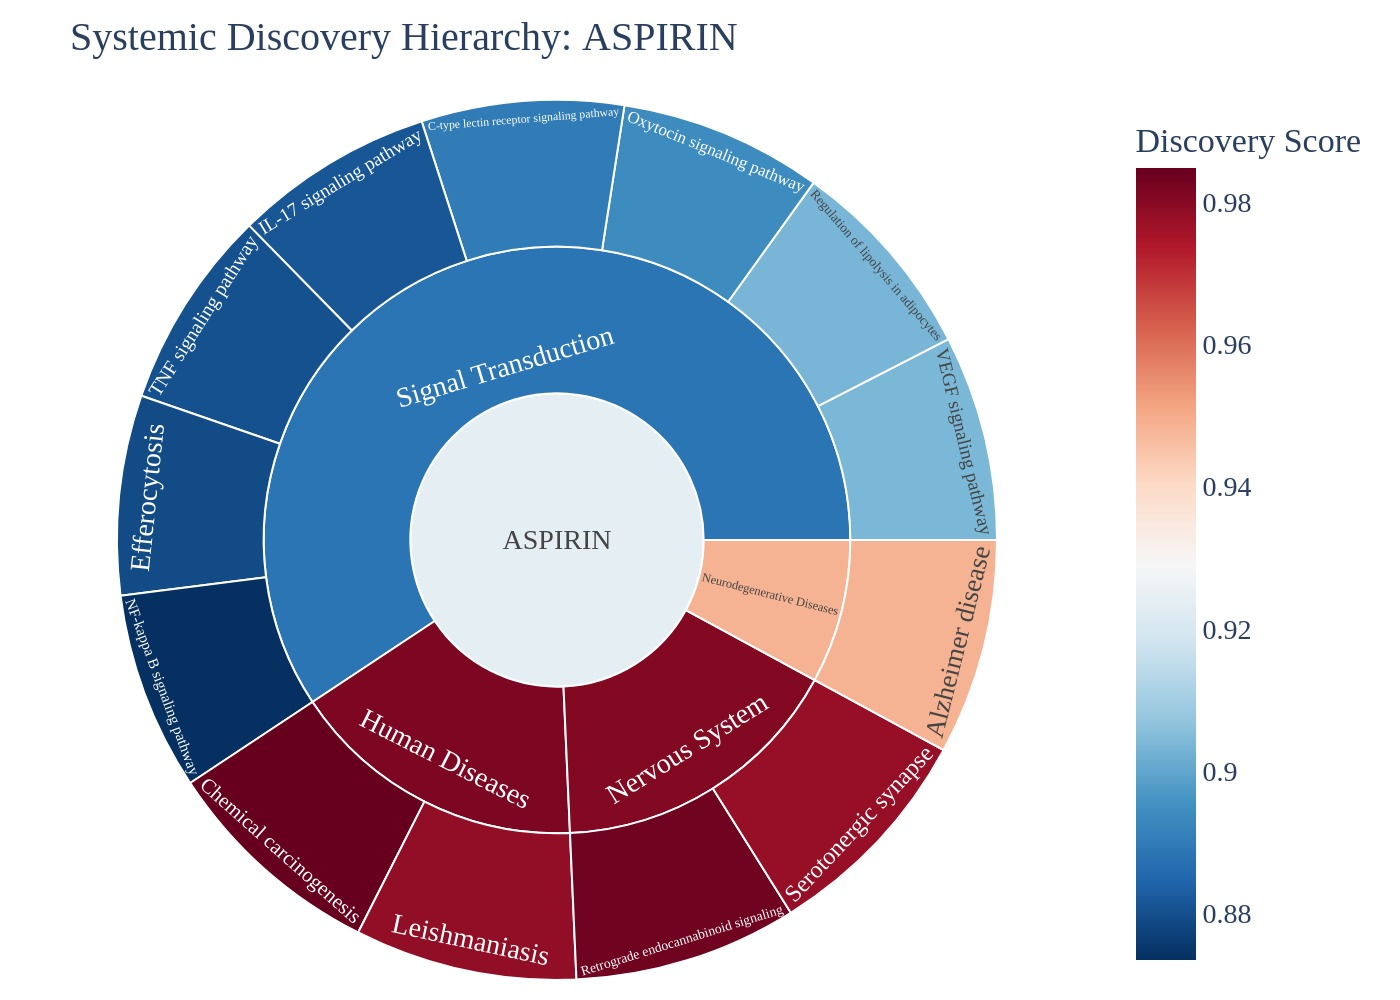
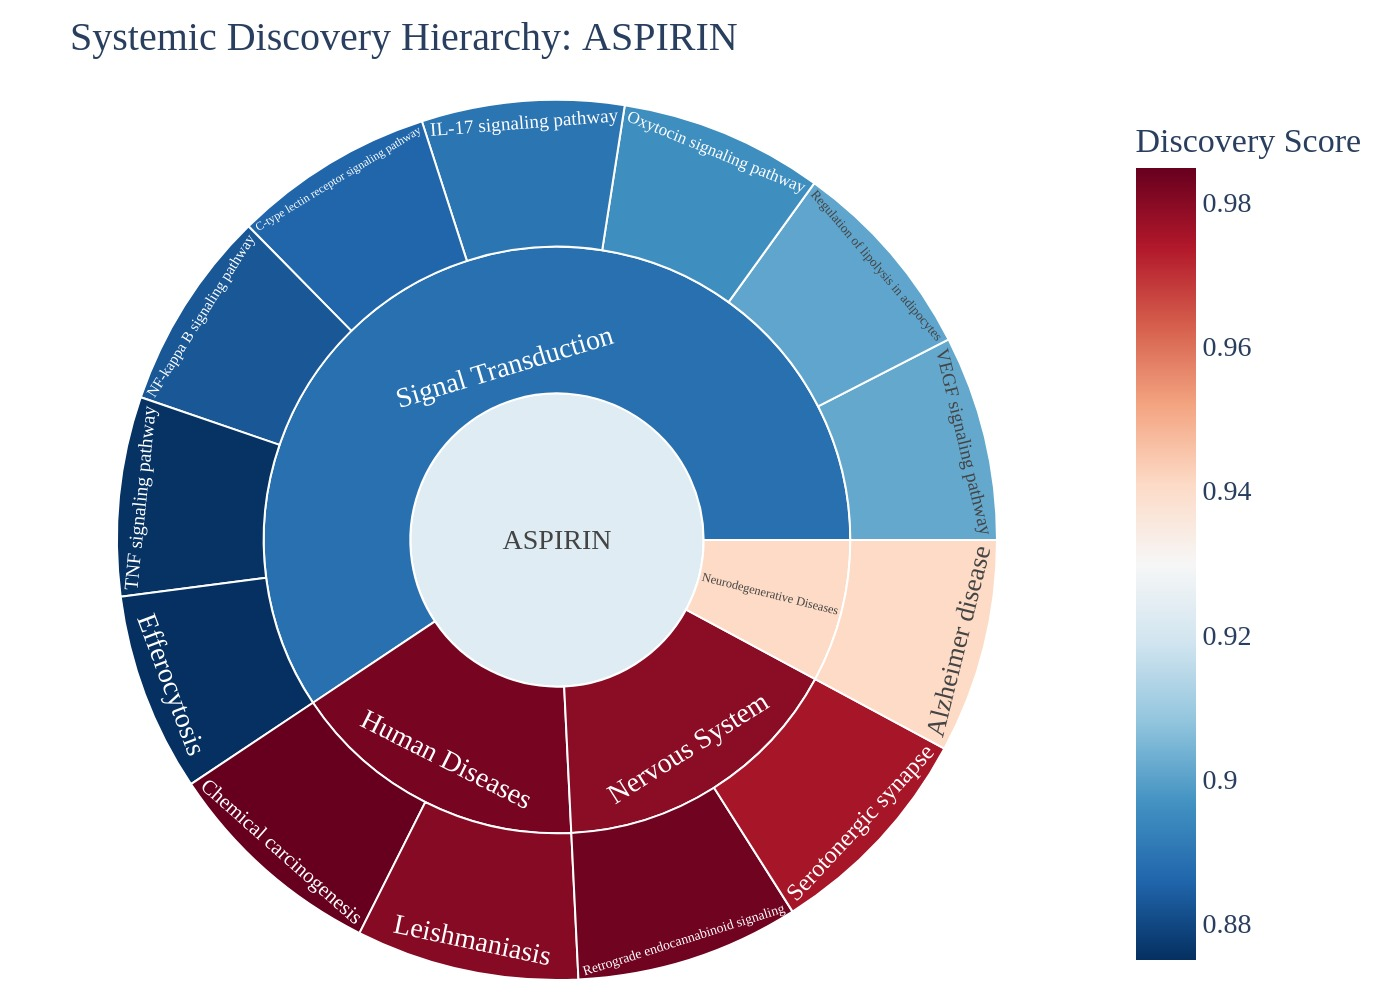
Cleanup old results and update Aspirin with high-accuracy V2 engine

diff --git a/results/Aspirin.md b/results/Aspirin.md
@@ -13,15 +13,15 @@ The following table maps the numeric identifiers (1-15) displayed on the blue ou
 | 2 | Retrograde endocannabinoid signaling | 0.98 |
 | 3 | Leishmaniasis | 0.98 |
 | 4 | Serotonergic synapse | 0.98 |
-| 5 | Alzheimer disease | 0.95 |
+| 5 | Alzheimer disease | 0.94 |
 | 6 | VEGF signaling pathway | 0.90 |
 | 7 | Regulation of lipolysis in adipocytes | 0.90 |
-| 8 | Oxytocin signaling pathway | 0.89 |
-| 9 | C-type lectin receptor signaling pathway | 0.89 |
-| 10 | IL-17 signaling pathway | 0.88 |
-| 11 | TNF signaling pathway | 0.88 |
-| 12 | Efferocytosis | 0.88 |
-| 13 | NF-kappa B signaling pathway | 0.87 |
+| 8 | Oxytocin signaling pathway | 0.90 |
+| 9 | IL-17 signaling pathway | 0.89 |
+| 10 | C-type lectin receptor signaling pathway | 0.89 |
+| 11 | NF-kappa B signaling pathway | 0.88 |
+| 12 | TNF signaling pathway | 0.88 |
+| 13 | Efferocytosis | 0.87 |
 
 ### Visual Discovery Portfolio
 ![Discovery Meta-Network](aspirin_hub_and_spoke.jpg)
@@ -33,19 +33,19 @@ The following table maps the numeric identifiers (1-15) displayed on the blue ou
 ## I. NEW POTENTIAL DISEASE TARGETS
 | Discovery Pathway | System Category | Predicted Effect | Discovery Score | Z-Score (Specificity) | Biological Mechanism Narrative |
 |---|---|---|---|---|---|
-| [Chemical carcinogenesis](https://www.kegg.jp/kegg-bin/show_pathway?hsa05204+hsa:5743) | Human Diseases | **Inhibited (Predicted)** | 0.98 | 8.10 | The drug targets PTGS2, PTGS1, which influences the (RefSeq) cytochrome P450 2C19 activator to modify a member of the cytochrome P450 superfamily of enzymes in Chemical carcinogenesis. |
-| [Retrograde endocannabinoid signaling](https://www.kegg.jp/kegg-bin/show_pathway?hsa04723+hsa:5743) | Nervous System | **Inhibited (Predicted)** | 0.98 | 5.89 | The drug targets PTGS2, PTGS1, which influences the (RefSeq) mitogen-activated protein kinase 1 activator to modify is a member of the mitogen-activated protein kinase (MAPK) family in Retrograde endocannabinoid signaling. |
-| [Leishmaniasis](https://www.kegg.jp/kegg-bin/show_pathway?hsa05140+hsa:5743) | Human Diseases | **Inhibited** | 0.98 | 4.31 | The drug targets PTGS2, PTGS1, which influences the (RefSeq) mitogen-activated protein kinase 1 activator to modify is a member of the mitogen-activated protein kinase (MAPK) family in Leishmaniasis. |
-| [Serotonergic synapse](https://www.kegg.jp/kegg-bin/show_pathway?hsa04726+hsa:5743+hsa:5742) | Nervous System | **Activated (Disinhibition)** | 0.98 | 4.23 | The drug targets PTGS2, PTGS1, which influences the (RefSeq) mitogen-activated protein kinase 1 activator to modify is a member of the mitogen-activated protein kinase (MAPK) family in Serotonergic synapse. |
-| [Alzheimer disease](https://www.kegg.jp/kegg-bin/show_pathway?hsa05010+hsa:5743) | Neurodegenerative Diseases | **Inhibited (Predicted)** | 0.95 | 2.54 | The drug targets PTGS2, PTGS1, which influences the (RefSeq) mitogen-activated protein kinase 1 activator to modify is a member of the mitogen-activated protein kinase (MAPK) family in Alzheimer disease. |
-| [VEGF signaling pathway](https://www.kegg.jp/kegg-bin/show_pathway?hsa04370+hsa:5743) | Signal Transduction | **Inhibited (Predicted)** | 0.90 | 5.89 | The drug targets PTGS2, PTGS1, which influences the (RefSeq) mitogen-activated protein kinase 1 activator to modify is a member of the mitogen-activated protein kinase (MAPK) family in VEGF signaling pathway. |
-| [Regulation of lipolysis in adipocytes](https://www.kegg.jp/kegg-bin/show_pathway?hsa04923+hsa:5743+hsa:5742) | Signal Transduction | **Inhibited (Predicted)** | 0.90 | 5.69 | The drug targets PTGS2, PTGS1, which influences the (RefSeq) phosphatidylinositol 4,5-bisphosphate 3-kinase catalytic subunit alpha isoform activator to modify phosphoinositide 3-kinases (PI3Ks) phosphorylate inositol lipids and are involved in the immune response in Regulation of lipolysis in adipocytes. |
-| [Oxytocin signaling pathway](https://www.kegg.jp/kegg-bin/show_pathway?hsa04921+hsa:5743) | Signal Transduction | **Inhibited (Predicted)** | 0.89 | 3.76 | The drug targets PTGS2, PTGS1, which influences the (RefSeq) mitogen-activated protein kinase 1 activator to modify is a member of the mitogen-activated protein kinase (MAPK) family in Oxytocin signaling pathway. |
-| [C-type lectin receptor signaling pathway](https://www.kegg.jp/kegg-bin/show_pathway?hsa04625+hsa:5743) | Signal Transduction | **Inhibited (Predicted)** | 0.89 | 3.46 | The drug targets PTGS2, PTGS1, which influences the (RefSeq) mitogen-activated protein kinase 1 activator to modify is a member of the mitogen-activated protein kinase (MAPK) family in C-type lectin receptor signaling pathway. |
-| [IL-17 signaling pathway](https://www.kegg.jp/kegg-bin/show_pathway?hsa04657+hsa:5743) | Signal Transduction | **Inhibited (Predicted)** | 0.88 | 3.00 | The drug targets PTGS2, PTGS1, which influences the (RefSeq) mitogen-activated protein kinase 1 activator to modify is a member of the mitogen-activated protein kinase (MAPK) family in IL-17 signaling pathway. |
-| [TNF signaling pathway](https://www.kegg.jp/kegg-bin/show_pathway?hsa04668+hsa:5743) | Signal Transduction | **Inhibited (Predicted)** | 0.88 | 2.95 | The drug targets PTGS2, PTGS1, which influences the (RefSeq) mitogen-activated protein kinase 1 activator to modify is a member of the mitogen-activated protein kinase (MAPK) family in TNF signaling pathway. |
-| [Efferocytosis](https://www.kegg.jp/kegg-bin/show_pathway?hsa04148+hsa:5743) | Signal Transduction | **Inhibited** | 0.88 | 2.90 | The drug targets PTGS2, PTGS1, which influences the (RefSeq) mitogen-activated protein kinase 1 activator to modify is a member of the mitogen-activated protein kinase (MAPK) family in Efferocytosis. |
-| [NF-kappa B signaling pathway](https://www.kegg.jp/kegg-bin/show_pathway?hsa04064+hsa:5743) | Signal Transduction | **Inhibited (Predicted)** | 0.87 | 2.70 | The drug targets PTGS2, PTGS1, which influences the (RefSeq) NF-kappa-B essential modulator isoform a activator to modify executing downstream cellular signaling in NF-kappa B signaling pathway. |
+| [Chemical carcinogenesis](https://www.kegg.jp/kegg-bin/show_pathway?hsa05204+hsa:5743) | Human Diseases | **Inhibited (Predicted)** | 0.98 | 7.60 | The drug targets PTGS2, PTGS1, which influences the (RefSeq) cytochrome P450 2C19 activator to modify a member of the cytochrome P450 superfamily of enzymes in Chemical carcinogenesis. |
+| [Retrograde endocannabinoid signaling](https://www.kegg.jp/kegg-bin/show_pathway?hsa04723+hsa:5743) | Nervous System | **Inhibited (Predicted)** | 0.98 | 5.79 | The drug targets PTGS2, PTGS1, which influences the (RefSeq) mitogen-activated protein kinase 1 activator to modify is a member of the mitogen-activated protein kinase (MAPK) family in Retrograde endocannabinoid signaling. |
+| [Leishmaniasis](https://www.kegg.jp/kegg-bin/show_pathway?hsa05140+hsa:5743) | Human Diseases | **Inhibited** | 0.98 | 4.61 | The drug targets PTGS2, PTGS1, which influences the (RefSeq) mitogen-activated protein kinase 1 activator to modify is a member of the mitogen-activated protein kinase (MAPK) family in Leishmaniasis. |
+| [Serotonergic synapse](https://www.kegg.jp/kegg-bin/show_pathway?hsa04726+hsa:5743+hsa:5742) | Nervous System | **Activated (Disinhibition)** | 0.98 | 3.92 | The drug targets PTGS2, PTGS1, which influences the (RefSeq) mitogen-activated protein kinase 1 activator to modify is a member of the mitogen-activated protein kinase (MAPK) family in Serotonergic synapse. |
+| [Alzheimer disease](https://www.kegg.jp/kegg-bin/show_pathway?hsa05010+hsa:5743) | Neurodegenerative Diseases | **Inhibited (Predicted)** | 0.94 | 2.34 | The drug targets PTGS2, PTGS1, which influences the (RefSeq) mitogen-activated protein kinase 1 activator to modify is a member of the mitogen-activated protein kinase (MAPK) family in Alzheimer disease. |
+| [VEGF signaling pathway](https://www.kegg.jp/kegg-bin/show_pathway?hsa04370+hsa:5743) | Signal Transduction | **Inhibited (Predicted)** | 0.90 | 4.96 | The drug targets PTGS2, PTGS1, which influences the (RefSeq) mitogen-activated protein kinase 1 activator to modify is a member of the mitogen-activated protein kinase (MAPK) family in VEGF signaling pathway. |
+| [Regulation of lipolysis in adipocytes](https://www.kegg.jp/kegg-bin/show_pathway?hsa04923+hsa:5743+hsa:5742) | Signal Transduction | **Inhibited (Predicted)** | 0.90 | 4.78 | The drug targets PTGS2, PTGS1, which influences the (RefSeq) phosphatidylinositol 4,5-bisphosphate 3-kinase catalytic subunit alpha isoform activator to modify phosphoinositide 3-kinases (PI3Ks) phosphorylate inositol lipids and are involved in the immune response in Regulation of lipolysis in adipocytes. |
+| [Oxytocin signaling pathway](https://www.kegg.jp/kegg-bin/show_pathway?hsa04921+hsa:5743) | Signal Transduction | **Inhibited (Predicted)** | 0.90 | 3.96 | The drug targets PTGS2, PTGS1, which influences the (RefSeq) mitogen-activated protein kinase 1 activator to modify is a member of the mitogen-activated protein kinase (MAPK) family in Oxytocin signaling pathway. |
+| [IL-17 signaling pathway](https://www.kegg.jp/kegg-bin/show_pathway?hsa04657+hsa:5743) | Signal Transduction | **Inhibited (Predicted)** | 0.89 | 3.44 | The drug targets PTGS2, PTGS1, which influences the (RefSeq) mitogen-activated protein kinase 1 activator to modify is a member of the mitogen-activated protein kinase (MAPK) family in IL-17 signaling pathway. |
+| [C-type lectin receptor signaling pathway](https://www.kegg.jp/kegg-bin/show_pathway?hsa04625+hsa:5743) | Signal Transduction | **Inhibited (Predicted)** | 0.89 | 3.22 | The drug targets PTGS2, PTGS1, which influences the (RefSeq) mitogen-activated protein kinase 1 activator to modify is a member of the mitogen-activated protein kinase (MAPK) family in C-type lectin receptor signaling pathway. |
+| [NF-kappa B signaling pathway](https://www.kegg.jp/kegg-bin/show_pathway?hsa04064+hsa:5743) | Signal Transduction | **Inhibited (Predicted)** | 0.88 | 3.07 | The drug targets PTGS2, PTGS1, which influences the (RefSeq) NF-kappa-B essential modulator isoform a activator to modify executing downstream cellular signaling in NF-kappa B signaling pathway. |
+| [TNF signaling pathway](https://www.kegg.jp/kegg-bin/show_pathway?hsa04668+hsa:5743) | Signal Transduction | **Inhibited (Predicted)** | 0.88 | 2.76 | The drug targets PTGS2, PTGS1, which influences the (RefSeq) mitogen-activated protein kinase 1 activator to modify is a member of the mitogen-activated protein kinase (MAPK) family in TNF signaling pathway. |
+| [Efferocytosis](https://www.kegg.jp/kegg-bin/show_pathway?hsa04148+hsa:5743) | Signal Transduction | **Inhibited** | 0.87 | 2.75 | The drug targets PTGS2, PTGS1, which influences the (RefSeq) mitogen-activated protein kinase 1 activator to modify is a member of the mitogen-activated protein kinase (MAPK) family in Efferocytosis. |
 
 ## II. THE MOLECULAR CONNECTORS
 | Connector Protein (Bridge) | Pathway Count | Discovery Context |
@@ -53,41 +53,41 @@ The following table maps the numeric identifiers (1-15) displayed on the blue ou
 | **(RefSeq) mitogen-activated protein kinase 1** (+ 1 others) | 17 | Alzheimer disease, C-type lectin receptor signaling pathway, Efferocytosis... |
 | **(RefSeq) phosphatidylinositol 4,5-bisphosphate 3-kinase catalytic subunit alpha isoform** (+ 2 others) | 13 | Alzheimer disease, C-type lectin receptor signaling pathway, Human cytomegalovirus infection... |
 | **(RefSeq) LOC110117498-PIK3R3 readthrough** (+ 3 others) | 12 | Alzheimer disease, C-type lectin receptor signaling pathway, Human cytomegalovirus infection... |
-| **(RefSeq) GTPase HRas isoform 1** (+ 3 others) | 11 | Alzheimer disease, C-type lectin receptor signaling pathway, Human cytomegalovirus infection... |
 | **(RefSeq) RAC-alpha serine/threonine-protein kinase** (+ 2 others) | 11 | Alzheimer disease, C-type lectin receptor signaling pathway, Human cytomegalovirus infection... |
 | **(RefSeq) mitogen-activated protein kinase 11** (+ 3 others) | 11 | C-type lectin receptor signaling pathway, Efferocytosis, Human cytomegalovirus infection... |
+| **(RefSeq) GTPase HRas isoform 1** (+ 3 others) | 11 | Alzheimer disease, C-type lectin receptor signaling pathway, Human cytomegalovirus infection... |
 | **(RefSeq) NF-kappa-B essential modulator isoform a** (+ 1 others) | 10 | Alzheimer disease, C-type lectin receptor signaling pathway, Human cytomegalovirus infection... |
 | **(RefSeq) inositol 1,4,5-trisphosphate-gated calcium channel ITPR1 isoform 4** (+ 2 others) | 9 | Alzheimer disease, C-type lectin receptor signaling pathway, Human cytomegalovirus infection... |
-| **(RefSeq) 1-phosphatidylinositol 4,5-bisphosphate phosphodiesterase beta-1 isoform a** (+ 3 others) | 9 | Alzheimer disease, Human cytomegalovirus infection, Metabolic pathways... |
 | **(RefSeq) cAMP-dependent protein kinase catalytic subunit alpha isoform Calpha1** (+ 2 others) | 9 | Human cytomegalovirus infection, Human papillomavirus infection, Ovarian steroidogenesis... |
+| **(RefSeq) 1-phosphatidylinositol 4,5-bisphosphate phosphodiesterase beta-1 isoform a** (+ 3 others) | 9 | Alzheimer disease, Human cytomegalovirus infection, Metabolic pathways... |
 
 ## III. DOWNSTREAM IMPACT ON CELLS
 | Distal Pathway | System Branch | Discovery Score |
 |---|---|---|
-| Kaposi sarcoma-associated herpesvirus infection | Human Diseases | 0.52 |
-| Platelet activation | Signal Transduction | 0.53 |
-| MicroRNAs in cancer | Human Diseases | 0.47 |
-| Pathways of neurodegeneration | Neurodegenerative Diseases | 0.49 |
-| Arachidonic acid metabolism | Metabolism | 0.55 |
-| Ovarian steroidogenesis | Signal Transduction | 0.55 |
 | Human papillomavirus infection | Human Diseases | 0.50 |
+| Arachidonic acid metabolism | Metabolism | 0.55 |
+| MicroRNAs in cancer | Human Diseases | 0.46 |
 | Pathways in cancer | Human Diseases | 0.46 |
+| Ovarian steroidogenesis | Signal Transduction | 0.55 |
+| Platelet activation | Signal Transduction | 0.53 |
 | Human cytomegalovirus infection | Human Diseases | 0.51 |
-| Metabolic pathways | Metabolism | 0.71 |
+| Kaposi sarcoma-associated herpesvirus infection | Human Diseases | 0.51 |
+| Pathways of neurodegeneration | Neurodegenerative Diseases | 0.48 |
 | Small cell lung cancer | Human Diseases | 0.54 |
+| Metabolic pathways | Metabolism | 0.71 |
 
 --- 
 ## IV. KNOWN & EXPECTED EFFECTS (APPENDIX)
 | Known Mechanism | Logic | Evidence |
 |---|---|---|
-| Kaposi sarcoma-associated herpesvirus infection | Primary Indication | High Confidence |
-| Platelet activation | Primary Indication | High Confidence |
-| MicroRNAs in cancer | Primary Indication | High Confidence |
-| Pathways of neurodegeneration | Primary Indication | High Confidence |
-| Arachidonic acid metabolism | Primary Indication | High Confidence |
-| Ovarian steroidogenesis | Primary Indication | High Confidence |
 | Human papillomavirus infection | Primary Indication | High Confidence |
+| Arachidonic acid metabolism | Primary Indication | High Confidence |
+| MicroRNAs in cancer | Primary Indication | High Confidence |
 | Pathways in cancer | Primary Indication | High Confidence |
+| Ovarian steroidogenesis | Primary Indication | High Confidence |
+| Platelet activation | Primary Indication | High Confidence |
 | Human cytomegalovirus infection | Primary Indication | High Confidence |
+| Kaposi sarcoma-associated herpesvirus infection | Primary Indication | High Confidence |
+| Pathways of neurodegeneration | Primary Indication | High Confidence |
 | Small cell lung cancer | Primary Indication | High Confidence |
 